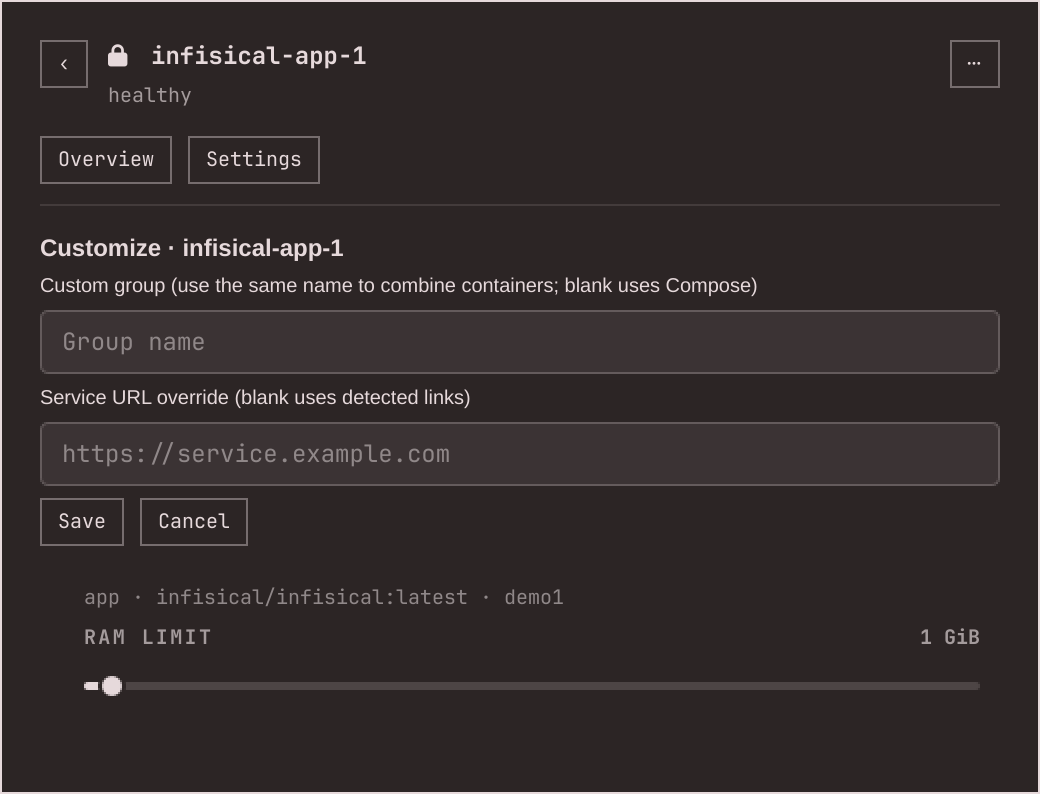
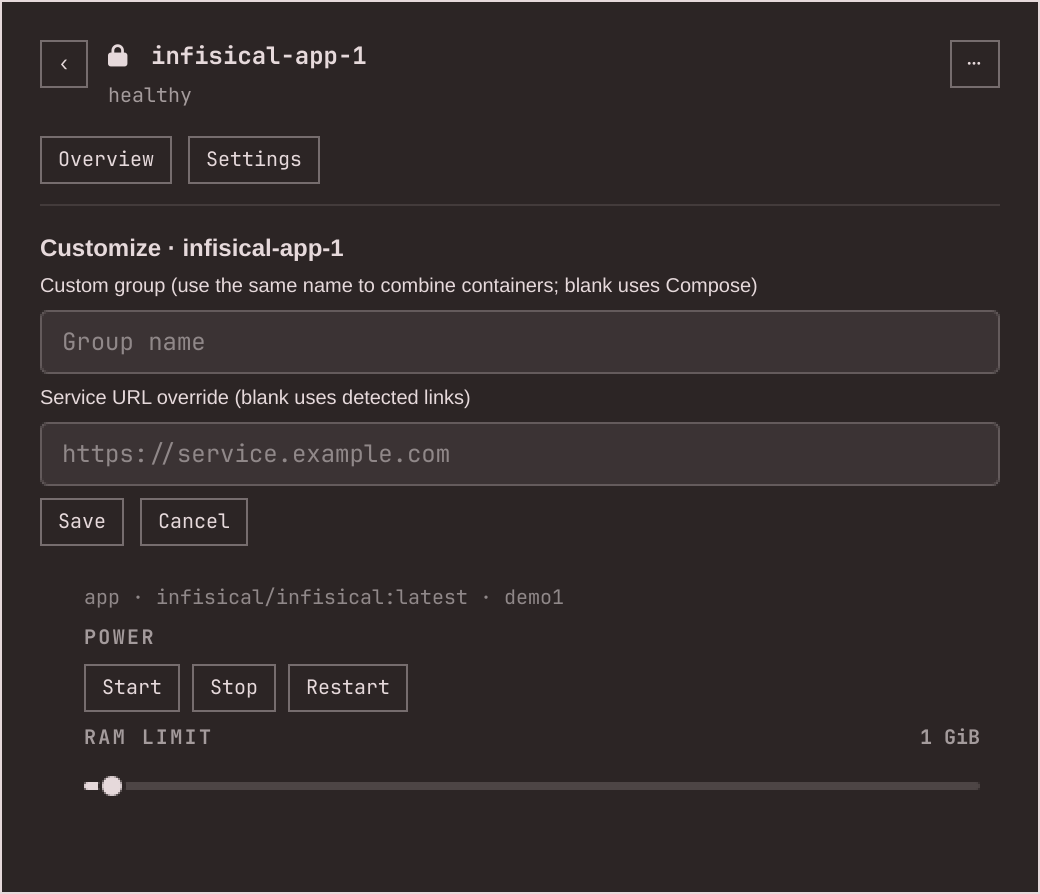
Add power controls to container Settings
Start, Stop and Restart buttons reuse the helper-validated lifecycle
actions from the actions menu.

diff --git a/Panel.qml b/Panel.qml
@@ -1173,6 +1173,31 @@ Panel {
                   width: parent.width
                 }
 
+                // Lifecycle controls, same helper path as the ⋯ menu
+                Text {
+                  textFormat: Text.PlainText
+                  visible: root.containerPage && root.containerTab === "settings"
+                  text: "POWER"
+                  color: Qt.darker(root.bar.foreground, 1.4)
+                  font.family: root.bar.fontFamily
+                  font.pixelSize: Style.font.caption
+                  font.bold: true
+                  font.letterSpacing: 1.2
+                }
+                Row {
+                  visible: root.containerPage && root.containerTab === "settings"
+                  spacing: Style.space(6)
+                  Repeater {
+                    model: [["start", "Start"], ["stop", "Stop"], ["restart", "Restart"]]
+                    delegate: MonitorButton {
+                      required property var modelData
+                      text: modelData[1]
+                      enabled: !actionProc.running && Model.actionCommand(modelData[0], containerRow.container).length > 0
+                      onClicked: root.runAction(modelData[0], containerRow.container)
+                    }
+                  }
+                }
+
                 // Row 3: RAM limit header
                 Item {
                   visible: root.containerPage && root.containerTab === "settings"

diff --git a/README.md b/README.md
@@ -13,7 +13,8 @@ A compact Docker dashboard for the Omarchy Quattro bar. Start with host CPU/RAM 
 - Internal IPv4/IPv6 addresses labeled by Docker network.
 - Group logs: every container in a group merged by time, color-coded per container with the theme palette, with per-container filtering and a live follow mode.
 - Ask agent: open your default Omarchy agent with a question about what a group or container is for. Details go only to the agent you chose; the prompt tells it to use read-only Docker commands.
-- Recent logs, start/stop/restart controls, custom group names, and URL overrides.
+- Start, stop, and restart from the ⋯ menu or a container's Settings page.
+- Recent logs, custom group names, and URL overrides.
 - RAM limits in Settings; the rest of the interface stays focused on monitoring.
 
 <table>

diff --git a/CHANGELOG.md b/CHANGELOG.md
@@ -3,6 +3,7 @@
 ## 0.3.0
 
 - Ask agent: a button on group and container pages opens your default Omarchy agent (`omarchy agent prompt`) asking what that software is for. The prompt carries names, images, status, and URLs, and tells the agent to use only read-only Docker commands.
+- Power controls: Start, Stop, and Restart buttons on each container's Settings page, next to the RAM limit. They run through `docker-helper.py` like the ⋯ menu actions, and each button is enabled only when that action applies to the container's current state.
 
 ## 0.2.0
 
